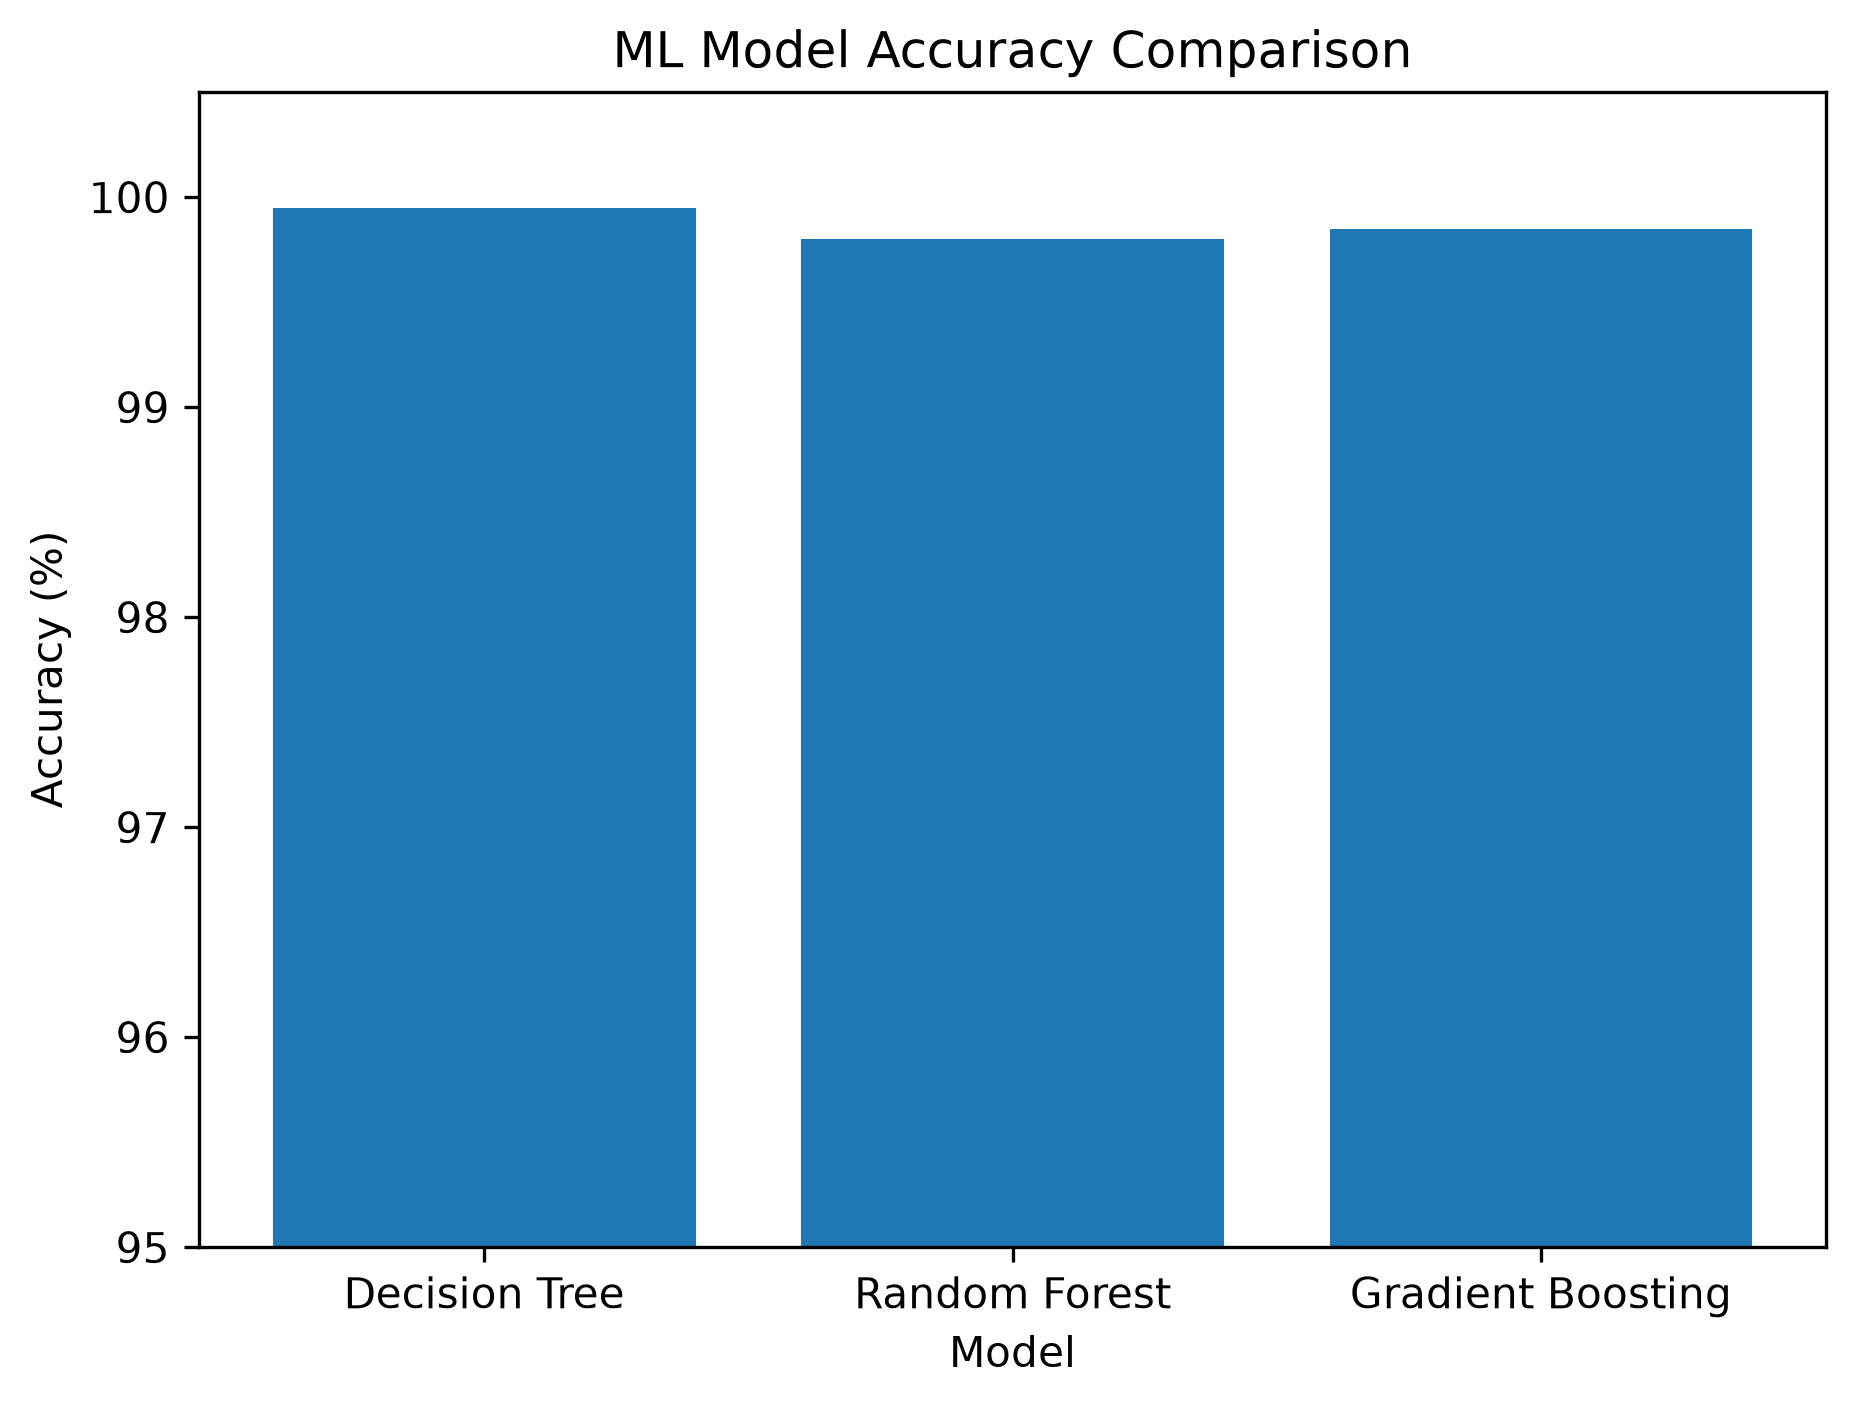
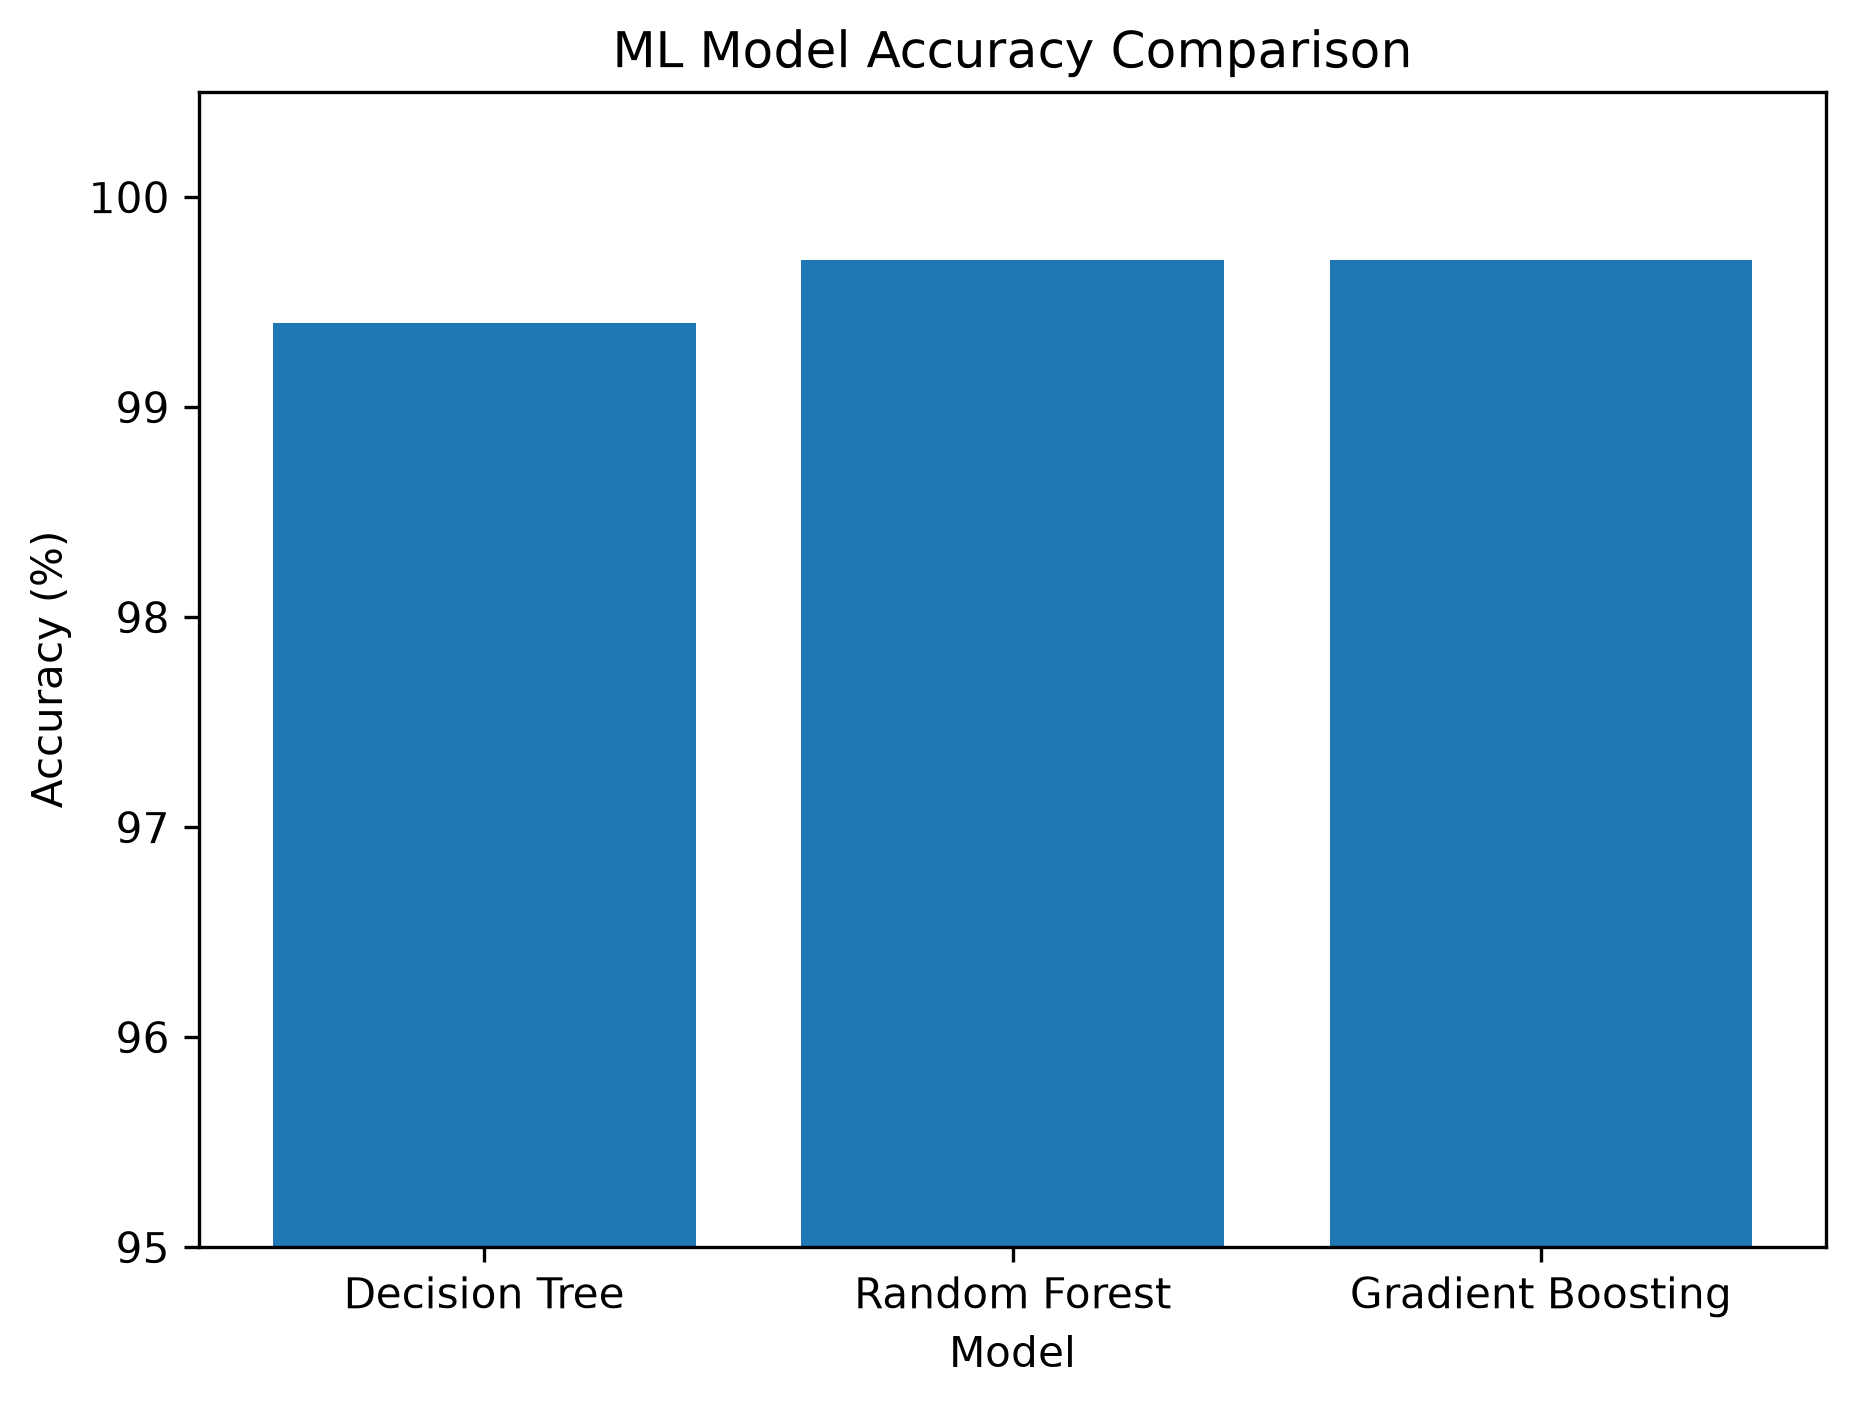
Improved dataset generation with smarter adaptive decision logic

Changed region(s): [[0.125, 0.1222, 0.375, 0.2445], [0.7188, 0.1528, 0.9688, 0.1834], [0.4375, 0.1528, 0.6562, 0.1834]]

diff --git a/src/decision_engine.py b/src/decision_engine.py
@@ -2,54 +2,65 @@ class DecisionEngine:
 
     def decide(self, task, vehicle, edge, cloud):
 
-        latency = task["latency_requirement"]
+        task_type = task["task_type"]
         priority = task["task_priority"]
         task_size = task["task_size"]
+        latency = task["latency_requirement"]
 
         vehicle_cpu = vehicle["cpu_usage"]
         battery = vehicle["battery_level"]
-        speed = vehicle["vehicle_speed"]
-        traffic = vehicle["traffic_density"]
+        vehicle_speed = vehicle["vehicle_speed"]
+        traffic_density = vehicle["traffic_density"]
 
         edge_delay = edge["network_delay"]
         edge_bandwidth = edge["network_bandwidth"]
+        edge_cpu = edge["cpu_usage"]
 
         cloud_delay = cloud["network_delay"]
         cloud_bandwidth = cloud["network_bandwidth"]
+        cloud_cpu = cloud["cpu_usage"]
 
-        # High-priority safety-critical tasks
-        if priority == 3 or latency <= 20:
+        # 1. Safety-critical tasks must prefer onboard vehicle
+        if task_type in ["lane_detection", "obstacle_detection"]:
 
-            if (
-                vehicle_cpu < 85
-                and battery > 20
-                and traffic < 80
-            ):
+            if vehicle_cpu <= 85 and battery >= 20:
                 return "VEHICLE"
 
-            if edge_delay < 30 and edge_bandwidth > task_size:
+            if edge_delay <= 25 and edge_bandwidth >= task_size and edge_cpu <= 75:
                 return "EDGE"
 
             return "VEHICLE"
 
-        # Medium-priority tasks
-        if priority == 2 or latency <= 100:
+        # 2. Medium-priority perception/navigation tasks prefer edge
+        if task_type in ["traffic_sign_recognition", "route_planning"]:
 
-            if edge_delay < 40 and edge_bandwidth > task_size:
+            if edge_delay <= 45 and edge_bandwidth >= task_size and edge_cpu <= 80:
                 return "EDGE"
 
-            if cloud_delay < 130 and cloud_bandwidth > task_size:
+            if vehicle_cpu <= 60 and battery >= 40 and traffic_density <= 60:
+                return "VEHICLE"
+
+            if cloud_delay <= 130 and cloud_bandwidth >= task_size and cloud_cpu <= 70:
                 return "CLOUD"
 
-            return "VEHICLE"
+            return "EDGE"
 
-        # Low-priority tasks
-        if priority == 1:
+        # 3. Low-priority diagnostics prefer cloud
+        if task_type == "vehicle_diagnostics":
 
-            if cloud_delay < 150 and cloud_bandwidth > task_size:
+            if cloud_delay <= 150 and cloud_bandwidth >= task_size and cloud_cpu <= 75:
                 return "CLOUD"
 
-            if edge_delay < 50:
+            if edge_delay <= 50 and edge_bandwidth >= task_size:
                 return "EDGE"
 
             return "VEHICLE"
+
+        # 4. Fallback rule
+        if latency <= 20:
+            return "VEHICLE"
+
+        if latency <= 150:
+            return "EDGE"
+
+        return "CLOUD"